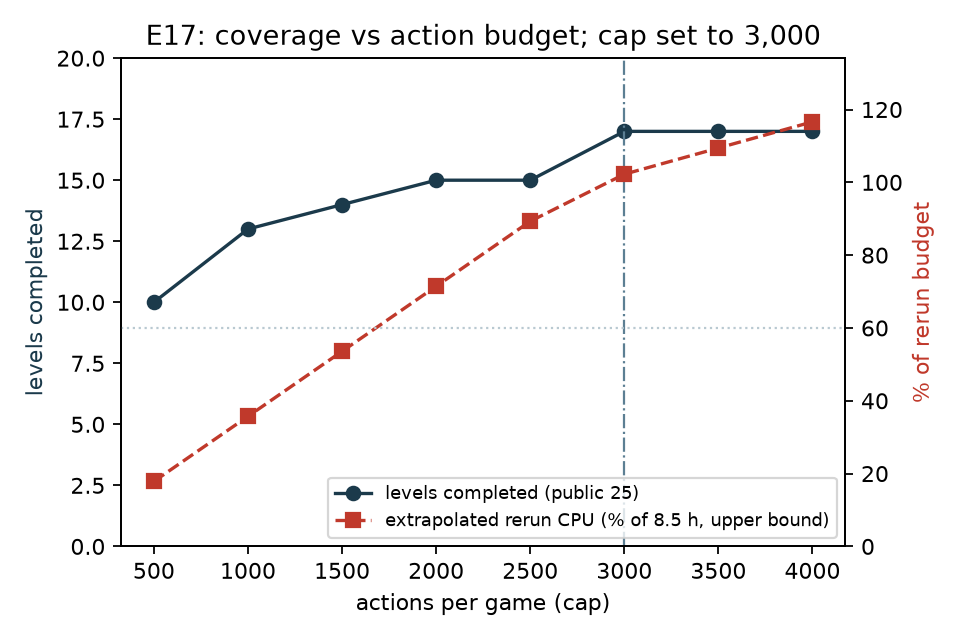
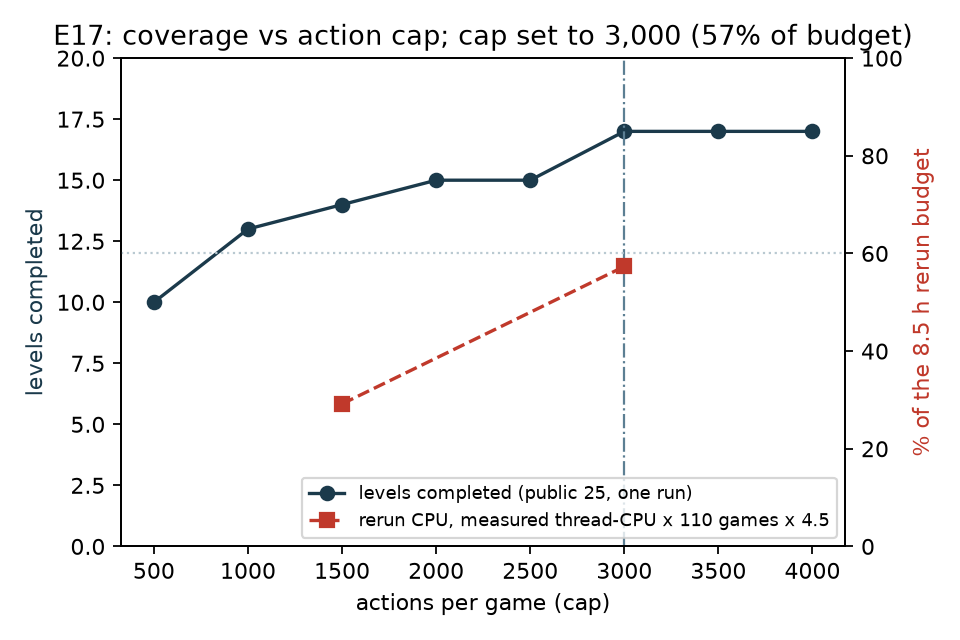
Figure 5: CPU series from measured thread-CPU simulations

diff --git a/src/arc_prize_2026/arc3/figures.py b/src/arc_prize_2026/arc3/figures.py
@@ -84,13 +84,15 @@ def fig_learning(run: dict, out: Path):
     fig.tight_layout(); fig.savefig(out / "fig4_learning_curve.png", dpi=160); plt.close(fig)
 
 
-def fig_budget(run4000: dict, out: Path, kaggle_speed: float = 4.5, n_hidden: int = 110, budget_s: float = 30600.0):
-    """E17: levels completed as a function of the per-game action budget (cumulative level-action counts of one
-    4,000-action run) with the rerun's extrapolated CPU use (110 games x mean seconds x Kaggle slowdown)."""
+def fig_budget(run4000: dict, out: Path, measured_cpu: dict[int, float] | None = None, kaggle_speed: float = 4.5,
+               n_hidden: int = 110, budget_s: float = 30600.0):
+    """E17: levels completed as a function of the per-game action cap (cumulative level-action counts of one
+    4,000-action run) with the rerun CPU fraction from the 25-thread simulations' measured thread-CPU sums
+    (seconds per 25 games), extrapolated as 110 games x mean x Kaggle slowdown."""
     budgets = [500, 1000, 1500, 2000, 2500, 3000, 3500, 4000]
-    levels, cpu = [], []
+    levels = []
     for b in budgets:
-        n = 0; secs = 0.0
+        n = 0
         for g in run4000["games"]:
             c = 0
             for x in g["level_actions"]:
@@ -98,22 +100,22 @@ def fig_budget(run4000: dict, out: Path, kaggle_speed: float = 4.5, n_hidden: in
                     break
                 c += x
                 n += int(c <= b)
-            secs += g["seconds"] / max(1, g["actions"]) * min(b, g["actions"])
-        levels.append(n); cpu.append(100 * secs / len(run4000["games"]) * n_hidden * kaggle_speed / budget_s)
+        levels.append(n)
+    measured_cpu = measured_cpu or {1500: 451.0, 3000: 886.0}  # experiments/swarm_sim_c155_v6.out, swarm_sim_c155_a3000.out
+    xs = sorted(measured_cpu); ys = [100 * measured_cpu[b] / 25 * n_hidden * kaggle_speed / budget_s for b in xs]
     fig, ax = plt.subplots(figsize=(6, 4))
-    ax.plot(budgets, levels, marker="o", color=C1, label="levels completed (public 25)")
+    ax.plot(budgets, levels, marker="o", color=C1, label="levels completed (public 25, one run)")
     ax.set_xlabel("actions per game (cap)"); ax.set_ylabel("levels completed", color=C1)
     ax.set_ylim(0, max(levels) + 3)
     ax2 = ax.twinx()
-    ax2.plot(budgets, cpu, marker="s", ls="--", color=ACC, label="extrapolated rerun CPU (% of 8.5 h, upper bound)")
-    ax2.axhline(60, color=C3, ls=":", lw=1); ax2.set_ylabel("% of rerun budget", color=ACC)
-    ax2.set_ylim(0, max(cpu) * 1.15)
+    ax2.plot(xs, ys, marker="s", ls="--", color=ACC, label="rerun CPU, measured thread-CPU x 110 games x 4.5")
+    ax2.axhline(60, color=C3, ls=":", lw=1); ax2.set_ylabel("% of the 8.5 h rerun budget", color=ACC)
+    ax2.set_ylim(0, 100)
     ax.axvline(3000, color=C2, lw=1, ls="-.")
-    ax.set_title("E17: coverage vs action budget; cap set to 3,000")
+    ax.set_title("E17: coverage vs action cap; cap set to 3,000 (57% of budget)")
     h1, l1 = ax.get_legend_handles_labels(); h2, l2 = ax2.get_legend_handles_labels()
     ax.legend(h1 + h2, l1 + l2, loc="lower right", fontsize=8)
     fig.tight_layout(); fig.savefig(out / "fig5_budget.png", dpi=160); plt.close(fig)
-
 
 def main(argv=None):
     ap = argparse.ArgumentParser()
